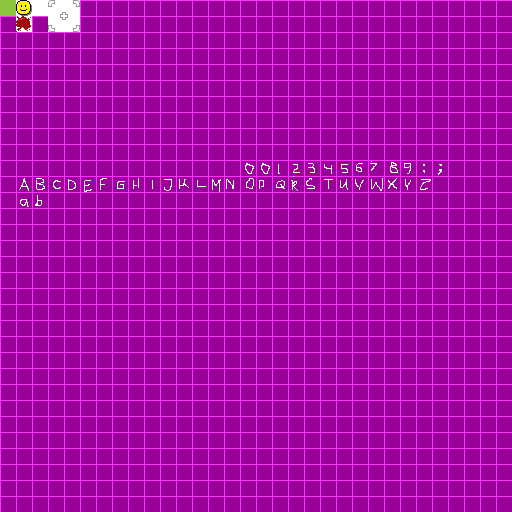
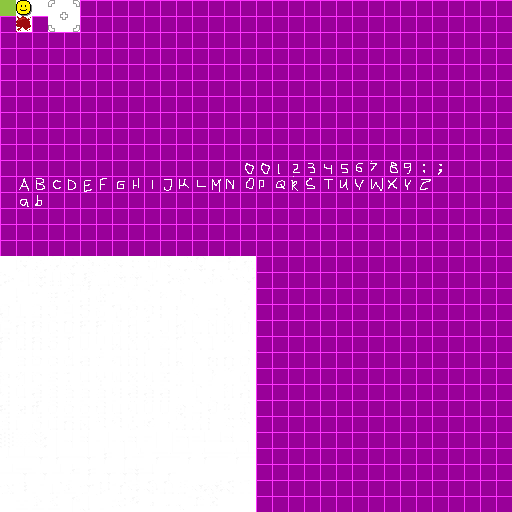
Using the minecraft font now

Changed region(s): [[0.0, 0.5, 0.5, 1.0]]

diff --git a/www/scripts/game/ui.js b/www/scripts/game/ui.js
@@ -11,7 +11,7 @@ define(['sprite'], function(s) {
 
 		for (i = 0; i < str.length; i++) {
 			c = str.charCodeAt(i);
-			a.push([c%32,Math.floor(c/32)]);
+			a.push([c%16,Math.floor(c/16)]);
 		};
 
 		return a;
@@ -25,7 +25,7 @@ define(['sprite'], function(s) {
 		for (i = 0; i < textIdxs.length; i++) {
 			charIdx = textIdxs[i];
 			ctx.drawImage(this.atlas,
-				charIdx[0]*16, (9+charIdx[1])*16,
+				charIdx[0]*16, (16+charIdx[1])*16,
 				16,16,
 				10+(i*16),10,
 				16,16);
